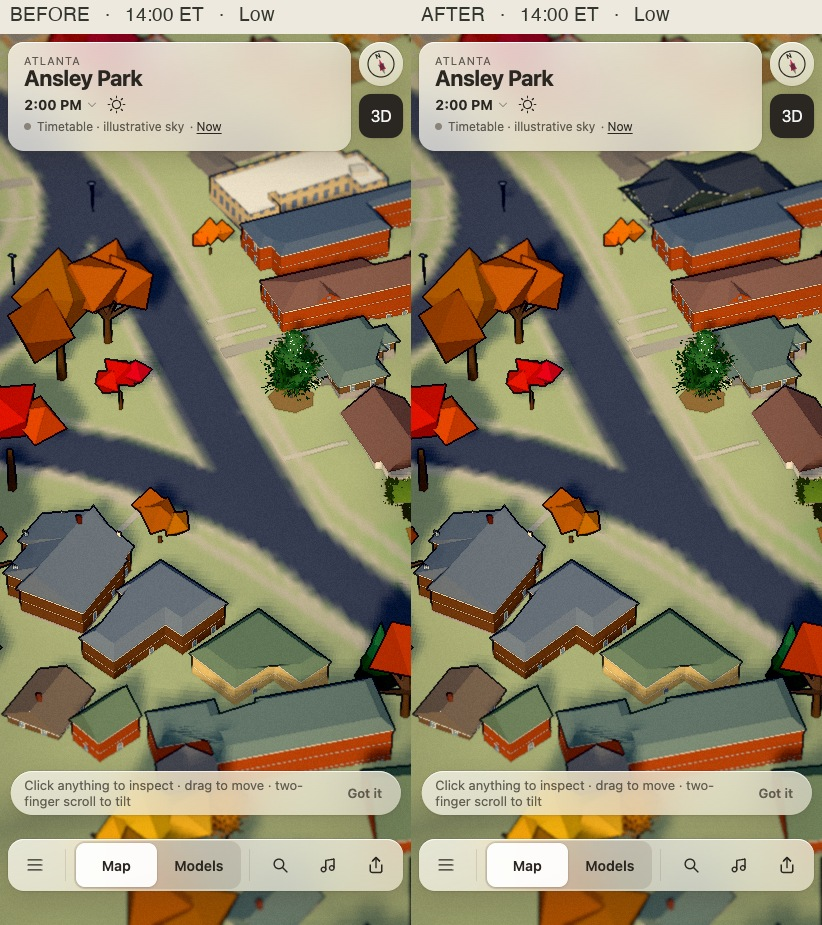
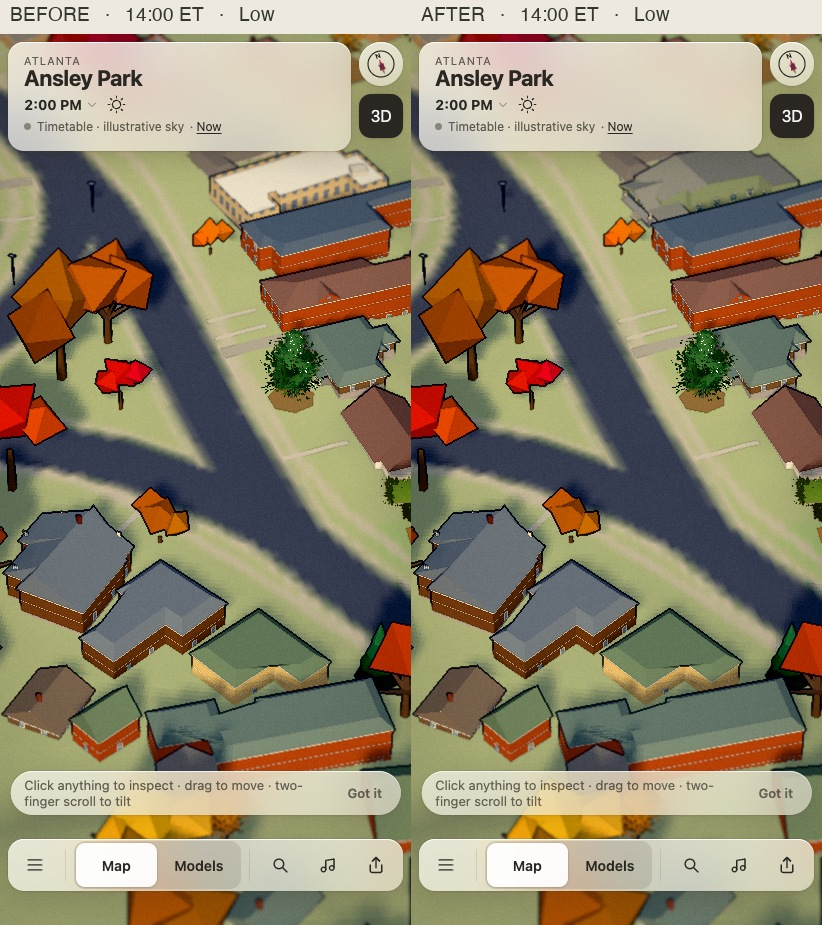
Record the frontage comparison and board-wide residential audit

Changed region(s): [[0.7299, 0.1514, 0.9732, 0.2422]]

diff --git a/docs/log/ui/145-the-prado/README.md b/docs/log/ui/145-the-prado/README.md
@@ -6,10 +6,28 @@ The National Register survey identifies a 1905 wood-frame Craftsman with a low s
 
 The frontal April 2014 panorama shows a dark porch gable, a three-part upper window, pale fascia and a driveway passing beneath the side roof. The February 2022 oblique view from near 147 confirms the gable’s projection toward the street. No reliable night exterior was found. The model uses City’s ambient lighting and adds no exterior fixture. [Frontal Street View](https://www.google.com/maps/@?api=1&map_action=pano&pano=BhZzxEILZCCNEOiXs86iPg&heading=90&pitch=0) · [Oblique Street View](https://www.google.com/maps/@?api=1&map_action=pano&viewpoint=33.79394,-84.37864&heading=142&pitch=0).
 
-The outline supplies the 16.6 m front and the stepped rear extent of roughly 32 m. The porch depth of 3.1 m, main roof rise of 3.65 m, rear roof intersections, individual openings and colours are illustrative estimates. The pitched roof and open porch replace the generic apartment-like appearance in both tiers.
+The outline supplies the 16.6 m front and the stepped rear extent of roughly 32 m. The model sets the porch floor from the front grade. The 3.1 m porch depth, 4.45 m wall height above that floor and 2.45 m main roof rise are estimates. A single side gable spans the stepped main body. The front gable shelters five lower sashes, the offset door and four entry steps. The drive-through bay has two outer posts and a shallow shed roof. The photos did not establish a chimney. Window spacing and asphalt and siding values are illustrative.
 
 | View | Camera | Clock |
 | --- | --- | --- |
 | [Matched day](day.jpg) | `1194,-4352,20,50,420`, low | 2026-11-20 14:00 ET |
 | [Matched night](night.jpg) | `1194,-4352,20,50,420`, low | 2026-11-20 23:00 ET |
 | [Porch and side bay](porch.jpg) | `1231,-4427,58,58,73`, high, dev close orbit | 2026-11-20 14:00 ET |
+| [Frontage from the April 2014 panorama location](pano.jpg) | Dev camera eye at x 1205.5, z −4420.3, 2.5 m above grade. Target x 1229, z −4427.2, 0.8 m above eye. Vertical FOV 36°, near 0.1 m. | High, 14:00 ET |
+| [Front porch in City](street-facing.jpg) | `1232,-4427,90,83,42`, high, dev close orbit | 14:00 ET |
+| [76 Park Lane NE, 510 m²](park-lane.jpg) | `1502,-4522,40,45,120`, low | 14:00 ET |
+| [1 Ansley Drive NE, 547 m²](ansley-drive.jpg) | `1150,-4655,25,45,155`, low | 14:00 ET |
+| [903 Peachtree, 31 storeys](tower.jpg) | `732,-2823,45,50,340`, low | 14:00 ET |
+
+## Board-wide footprint audit
+
+Across the 12 staged boards, 161 footprints over 450 m² carry one of the three explicit residential tags. Mapped residential land use contains 399. The groups overlap at 118 footprints, giving 442 distinct footprint records. The land-use join uses an interior point, respects polygon holes, and counts clipped pieces as staged. Run `.venv/bin/python pipeline/scripts/residential_landuse.py` against the staged board to regenerate the lookup and totals.
+
+| Category over 450 m² | Footprints | General house finish | Bespoke Prado | Prior treatment retained |
+| --- | ---: | ---: | ---: | ---: |
+| Tagged house | 105 | 87 | 1 | 17 |
+| Tagged detached | 3 | 1 | 0 | 2 |
+| Tagged residential | 53 | 0 | 0 | 53 |
+| Residential land use only | 281 | 0 | 0 | 281 |
+
+Specific house tags take precedence over the old area cutoff. In the broader residential and land-use categories, mapped levels or height must establish a low building. Separate apartment tags, named blocks, mapped parts, courtyards, seam fragments and large slab-like forms keep their earlier massing. The Castle retains its existing finish and recorded retail use. The table counts generic eligibility before any existing landmark override. The 31-storey 903 Peachtree keeps its flat roof and tower façade. General house roof rise is limited to half the eave height on the newly eligible large footprints. Where overall height is reported, two thirds or more remain in the wall.

diff --git a/docs/build-log.md b/docs/build-log.md
@@ -3133,3 +3133,7 @@ published timetable the worst was 0.5 ms. A regression checks the bound on
 every frame and compares the final positions with a fresh seek.
 
 [The Edgewood queue at 12:08](log/ui/streetcar-queues/edgewood-rollover.jpg)
+
+### 2026-11-23 — Finding the walls under the Prado roof
+
+The street panorama put the porch posts and the five lower windows in the same frame. Rebuilding from the front grade gave the porch a visible floor and four steps, while one low side gable could span the stepped footprint. Across the twelve boards, 442 large footprints had a residential tag or sat in mapped residential land use. Only 89 qualified for these house finishes, including the Prado itself. [Street elevation, house comparisons and tower control](log/ui/145-the-prado/README.md).
